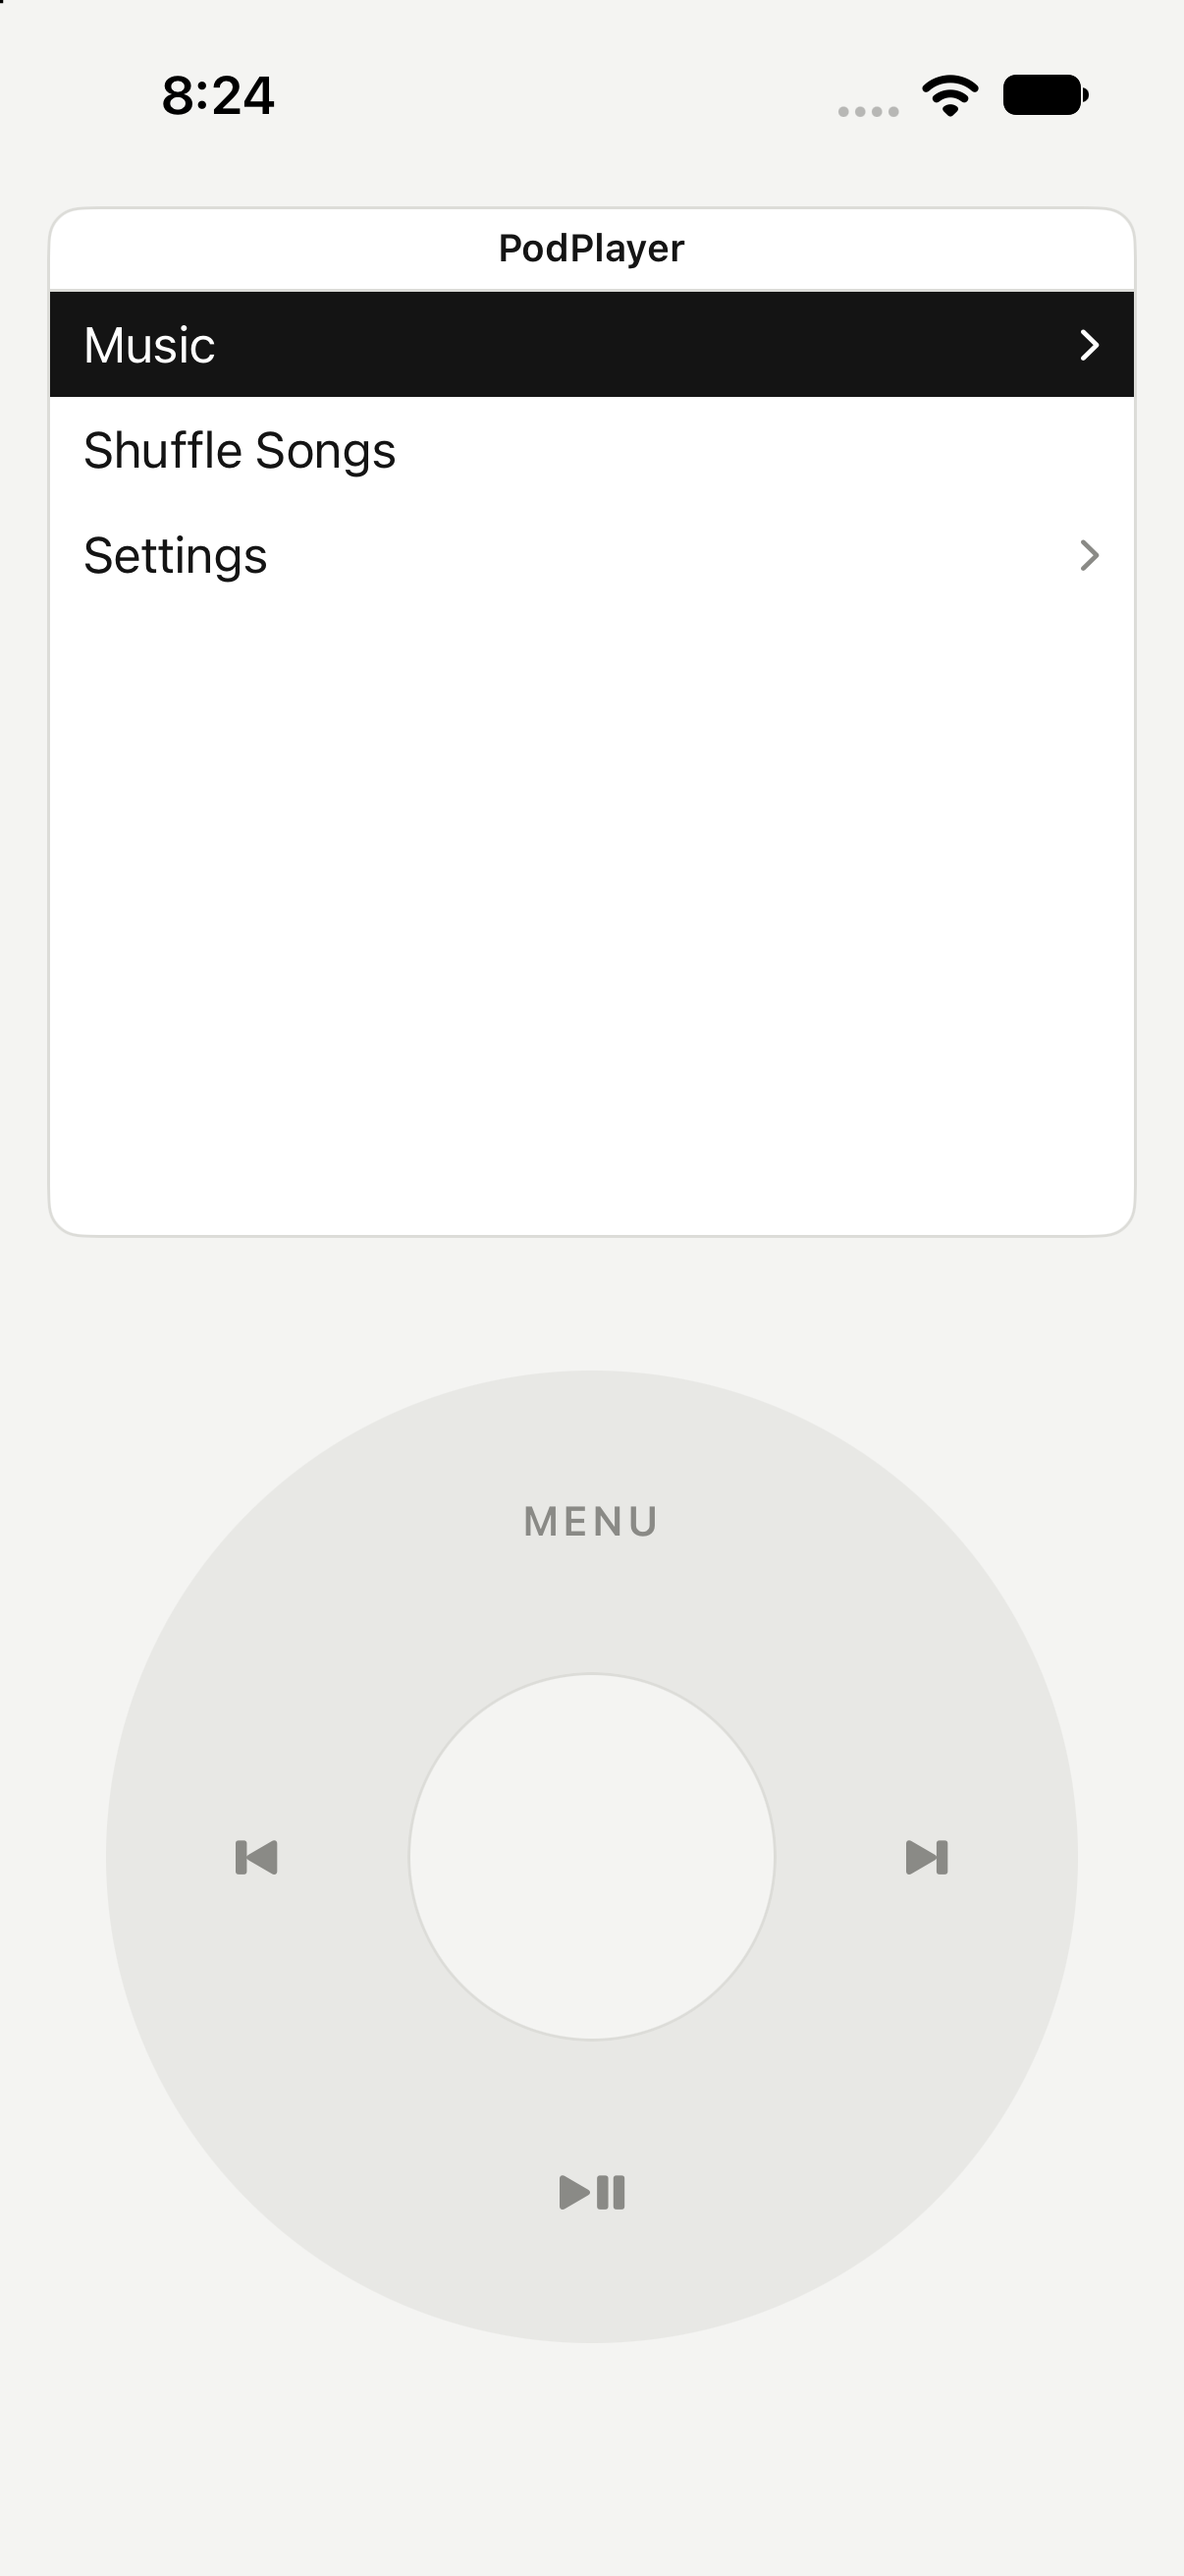
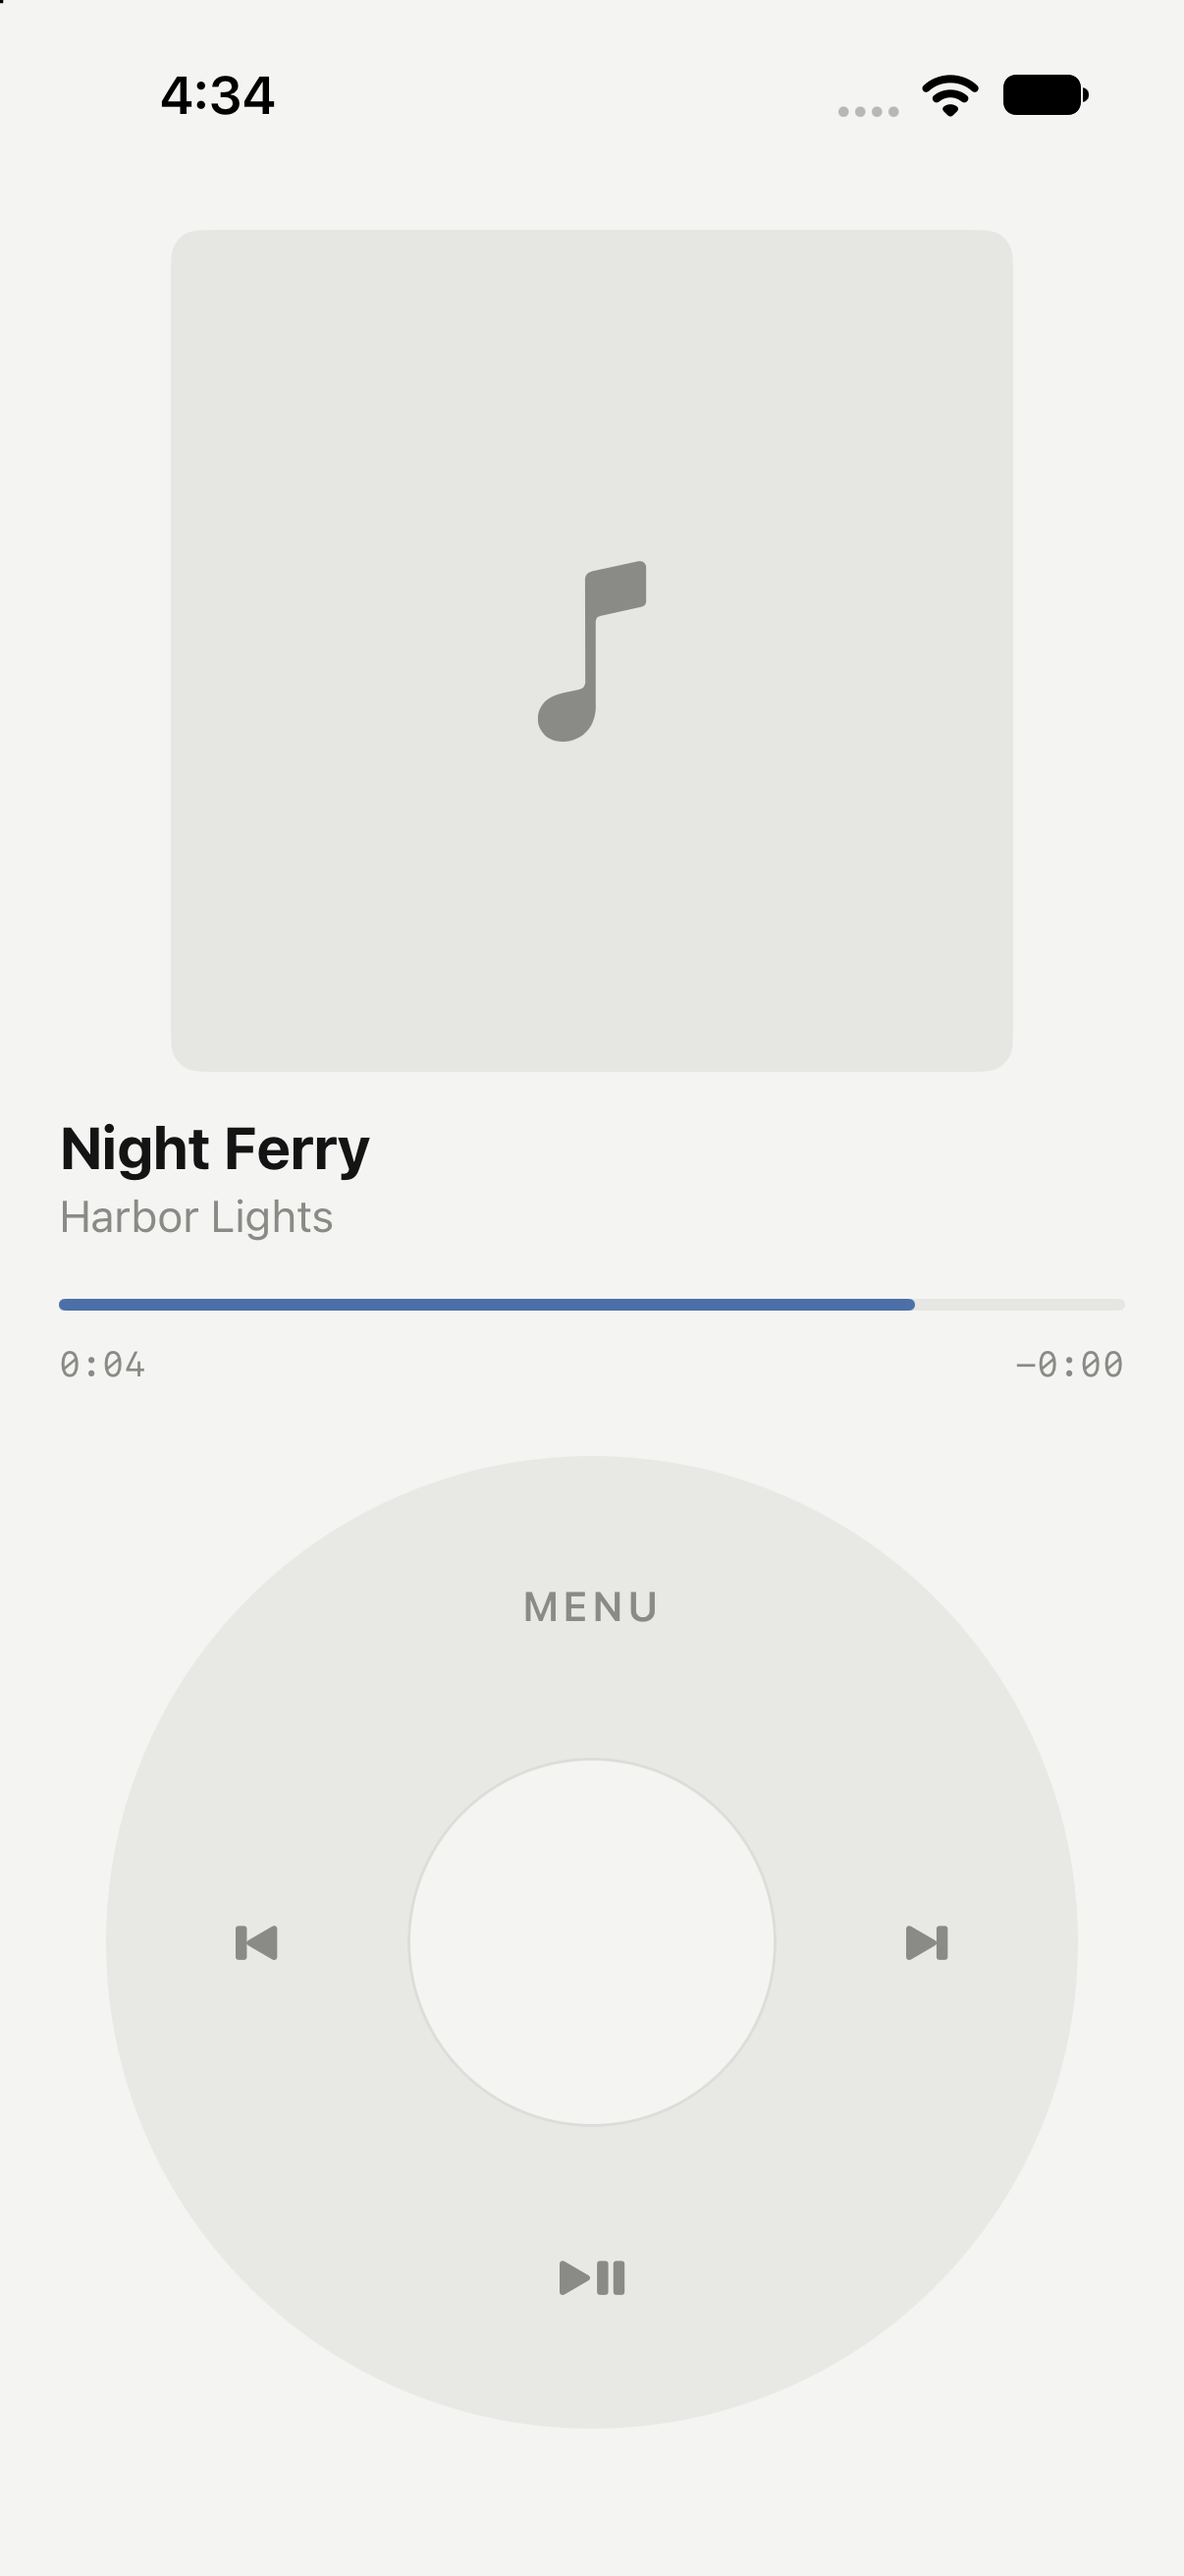
Drop the LCD panel and title bar; Now Playing with large artwork
Claude-Session: https://claude.ai/code/session_01TSfPJPGnncvTh1xTnzV1R5

diff --git a/rewind poc/UI/NowPlayingView.swift b/rewind poc/UI/NowPlayingView.swift
@@ -1,58 +1,52 @@
 import SwiftUI
 
-/// Now Playing: track info, then a progress bar, a volume bar (while spinning in volume
-/// mode) or a scrubber (scrub mode).
+/// Now Playing: large artwork, title and artist, then a progress bar, a volume bar (while
+/// spinning in volume mode) or a scrubber (scrub mode).
 struct NowPlayingView: View {
     let model: AppModel
 
     private var player: PlaybackEngine { model.player }
 
     var body: some View {
-        VStack(alignment: .leading, spacing: 0) {
-            HStack(spacing: 6) {
-                Text(player.queue.positionLabel)
-                Spacer()
-                if player.queue.isShuffled { Image(systemName: "shuffle") }
-                switch player.queue.repeatMode {
-                case .off: EmptyView()
-                case .all: Image(systemName: "repeat")
-                case .one: Image(systemName: "repeat.1")
-                }
-            }
-            .font(Theme.monoFont)
-            .foregroundStyle(Theme.secondary)
-            .padding(.bottom, 10)
+        VStack(alignment: .leading, spacing: 14) {
+            // Takes whatever height is left over, so the artwork is as large as fits.
+            Artwork(image: player.artwork)
+                .frame(maxWidth: .infinity, maxHeight: .infinity)
 
-            HStack(alignment: .top, spacing: 14) {
-                Artwork(image: player.artwork)
-                VStack(alignment: .leading, spacing: 4) {
+            HStack(alignment: .center, spacing: 10) {
+                VStack(alignment: .leading, spacing: 2) {
                     Text(player.currentTrack?.title ?? "Not Playing")
-                        .font(.system(size: 18, weight: .semibold))
+                        .font(.system(size: 20, weight: .bold))
                         .foregroundStyle(Theme.primary)
-                        .lineLimit(2)
                     Text(player.currentTrack?.artist ?? "")
                         .font(.system(size: 15))
                         .foregroundStyle(Theme.secondary)
-                        .lineLimit(1)
-                    Text(player.currentTrack?.album ?? "")
-                        .font(.system(size: 15))
-                        .foregroundStyle(Theme.secondary)
-                        .lineLimit(1)
                 }
+                .lineLimit(1)
                 Spacer(minLength: 0)
+                HStack(spacing: 8) {
+                    if player.queue.isShuffled { Image(systemName: "shuffle") }
+                    switch player.queue.repeatMode {
+                    case .off: EmptyView()
+                    case .all: Image(systemName: "repeat")
+                    case .one: Image(systemName: "repeat.1")
+                    }
+                }
+                .font(.system(size: 13, weight: .semibold))
+                .foregroundStyle(Theme.accent)
             }
 
-            Spacer(minLength: 8)
-
-            if let error = player.errorMessage {
-                Text(error)
-                    .font(.system(size: 13))
-                    .foregroundStyle(Theme.secondary)
-                    .padding(.bottom, 6)
+            VStack(alignment: .leading, spacing: 6) {
+                if let error = player.errorMessage {
+                    Text(error)
+                        .font(.system(size: 13))
+                        .foregroundStyle(Theme.secondary)
+                }
+                bottomBar
             }
-            bottomBar
         }
-        .padding(14)
+        .padding(.horizontal, 4)
+        .padding(.vertical, 8)
     }
 
     @ViewBuilder private var bottomBar: some View {
@@ -66,23 +60,25 @@ struct NowPlayingView: View {
     }
 }
 
+/// Square cover art, sized to fit the space it's given and centered in it.
 private struct Artwork: View {
     let image: UIImage?
 
     var body: some View {
-        Group {
-            if let image {
-                Image(uiImage: image).resizable().scaledToFill()
-            } else {
-                Image(systemName: "music.note")
-                    .font(.system(size: 26, weight: .light))
-                    .foregroundStyle(Theme.secondary)
-                    .frame(maxWidth: .infinity, maxHeight: .infinity)
-                    .background(Theme.track)
+        Color.clear
+            .aspectRatio(1, contentMode: .fit)
+            .overlay {
+                if let image {
+                    Image(uiImage: image).resizable().scaledToFill()
+                } else {
+                    Image(systemName: "music.note")
+                        .font(.system(size: 64, weight: .light))
+                        .foregroundStyle(Theme.secondary)
+                        .frame(maxWidth: .infinity, maxHeight: .infinity)
+                        .background(Theme.track)
+                }
             }
-        }
-        .frame(width: 84, height: 84)
-        .clipShape(RoundedRectangle(cornerRadius: 6, style: .continuous))
+            .clipShape(RoundedRectangle(cornerRadius: 10, style: .continuous))
     }
 }
 

diff --git a/rewind poc/UI/DisplayView.swift b/rewind poc/UI/DisplayView.swift
@@ -1,32 +1,25 @@
 import SwiftUI
 
-/// The "screen": title bar plus whatever the current menu level shows.
+/// The area above the wheel: whatever the current menu level shows, plus transient messages.
 struct DisplayView: View {
     let model: AppModel
 
     var body: some View {
-        VStack(spacing: 0) {
-            TitleBar(title: model.title, isPlaying: model.player.isPlaying, hasTrack: model.player.hasTrack)
-            Rectangle().fill(Theme.hairline).frame(height: 1)
-            content
-                .frame(maxWidth: .infinity, maxHeight: .infinity)
-        }
-        .background(Theme.display)
-        .clipShape(RoundedRectangle(cornerRadius: 12, style: .continuous))
-        .overlay(RoundedRectangle(cornerRadius: 12, style: .continuous).strokeBorder(Theme.hairline, lineWidth: 1))
-        .overlay(alignment: .bottom) {
-            if let message = model.message {
-                Text(message)
-                    .font(.system(size: 13, weight: .medium))
-                    .foregroundStyle(Theme.selectionText)
-                    .padding(.horizontal, 12)
-                    .padding(.vertical, 6)
-                    .background(Capsule().fill(Theme.primary))
-                    .padding(.bottom, 10)
-                    .transition(.opacity)
+        content
+            .frame(maxWidth: .infinity, maxHeight: .infinity)
+            .overlay(alignment: .bottom) {
+                if let message = model.message {
+                    Text(message)
+                        .font(.system(size: 13, weight: .medium))
+                        .foregroundStyle(Theme.selectionText)
+                        .padding(.horizontal, 12)
+                        .padding(.vertical, 6)
+                        .background(Capsule().fill(Theme.primary))
+                        .padding(.bottom, 10)
+                        .transition(.opacity)
+                }
             }
-        }
-        .animation(.easeOut(duration: 0.2), value: model.message)
+            .animation(.easeOut(duration: 0.2), value: model.message)
     }
 
     @ViewBuilder private var content: some View {
@@ -37,59 +30,6 @@ struct DisplayView: View {
             HapticsLabView(model: model)
         default:
             MenuListView(navigator: model.navigator, playingID: model.player.currentTrack?.id)
-        }
-    }
-}
-
-private struct TitleBar: View {
-    let title: String
-    let isPlaying: Bool
-    let hasTrack: Bool
-
-    var body: some View {
-        ZStack {
-            Text(title)
-                .font(Theme.titleFont)
-                .lineLimit(1)
-                .padding(.horizontal, 44)
-            HStack {
-                if hasTrack {
-                    Image(systemName: isPlaying ? "play.fill" : "pause.fill")
-                        .font(.system(size: 10))
-                        .foregroundStyle(isPlaying ? Theme.accent : Theme.secondary)
-                }
-                Spacer()
-                BatteryGlyph()
-            }
-            .padding(.horizontal, 12)
-        }
-        .foregroundStyle(Theme.primary)
-        .frame(height: 28)
-    }
-}
-
-private struct BatteryGlyph: View {
-    var body: some View {
-        let level = Self.level
-        if level >= 0 {
-            Image(systemName: Self.symbol(for: level))
-                .font(.system(size: 13))
-                .foregroundStyle(Theme.secondary)
-        }
-    }
-
-    private static var level: Float {
-        UIDevice.current.isBatteryMonitoringEnabled = true
-        return UIDevice.current.batteryLevel
-    }
-
-    private static func symbol(for level: Float) -> String {
-        switch level {
-        case ..<0.13: "battery.0percent"
-        case ..<0.38: "battery.25percent"
-        case ..<0.63: "battery.50percent"
-        case ..<0.88: "battery.75percent"
-        default: "battery.100percent"
         }
     }
 }

diff --git a/rewind poc/Navigation/Menu.swift b/rewind poc/Navigation/Menu.swift
@@ -60,28 +60,8 @@ nonisolated struct MenuContext: Sendable {
     }
 }
 
-/// Pure functions from (screen, context) to title and rows.
+/// Pure functions from (screen, context) to rows.
 nonisolated enum MenuBuilder {
-    static func title(for screen: Screen, context: MenuContext) -> String {
-        switch screen {
-        case .main: "re:wind"
-        case .music: "Music"
-        case .songs: "Songs"
-        case .artists: "Artists"
-        case .albums: "Albums"
-        case .artist(let name), .artistSongs(let name): name
-        case .album(let name): name
-        case .localFiles: "Local Files"
-        case .localTrack(let id): context.localTracks.first { $0.id == id }?.title ?? "Song"
-        case .confirmDelete: "Delete?"
-        case .cloud: "Cloud"
-        case .settings: "Settings"
-        case .hapticsLab: "Haptics Lab"
-        case .about: "About"
-        case .nowPlaying: "Now Playing"
-        }
-    }
-
     static func items(for screen: Screen, context c: MenuContext) -> [MenuItem] {
         switch screen {
         case .main:

diff --git a/rewind poc/UI/ContentView.swift b/rewind poc/UI/ContentView.swift
@@ -1,7 +1,7 @@
 import SwiftUI
 import UniformTypeIdentifiers
 
-/// Portrait iPod layout: display on top (~45%), click wheel centered below.
+/// Portrait layout: menus / Now Playing on top, click wheel centered below.
 struct ContentView: View {
     @Bindable var model: AppModel
 
@@ -11,8 +11,10 @@ struct ContentView: View {
 
     var body: some View {
         GeometryReader { geo in
-            let displayHeight = geo.size.height * 0.45
-            let wheelSize = min(geo.size.width - 72, geo.size.height - displayHeight - 48)
+            // The wheel is sized first (it's capped by the width on most phones); the display
+            // takes everything above it, so Now Playing's artwork can be as large as possible.
+            let wheelSize = min(geo.size.width - 72, geo.size.height * 0.45)
+            let displayHeight = geo.size.height - wheelSize - 40
             VStack(spacing: 0) {
                 DisplayView(model: model)
                     .frame(height: displayHeight)

diff --git a/rewind poc/UI/MenuListView.swift b/rewind poc/UI/MenuListView.swift
@@ -1,6 +1,6 @@
 import SwiftUI
 
-/// Classic iPod list: fixed-height rows, inverted selection bar, scroll indicator on the right.
+/// Fixed-height rows, a rounded selection highlight, scroll indicator on the right.
 struct MenuListView: View {
     let navigator: MenuNavigator
     let playingID: Track.ID?
@@ -62,7 +62,8 @@ struct MenuListView: View {
         .padding(.horizontal, 12)
         .frame(maxWidth: .infinity, maxHeight: .infinity, alignment: .leading)
         .foregroundStyle(selected ? Theme.selectionText : Theme.primary)
-        .background(selected ? Theme.selectionFill : .clear)
+        .background(selected ? Theme.selectionFill : .clear, in: RoundedRectangle(cornerRadius: 8, style: .continuous))
+        .padding(.vertical, 1)
     }
 }
 

diff --git a/rewind poc/UI/Theme.swift b/rewind poc/UI/Theme.swift
@@ -14,12 +14,11 @@ enum Theme {
     /// The one accent: a quiet slate blue, used for progress fills and the playing glyph.
     static let accent       = dynamic(light: 0x4C6FA8, dark: 0x86A6D8)
 
-    /// Selected menu row: inverted, like a monochrome LCD.
+    /// Selected menu row: inverted colors.
     static let selectionFill = primary
     static let selectionText = display
 
     static let rowFont = Font.system(size: 17, weight: .regular)
-    static let titleFont = Font.system(size: 13, weight: .semibold)
     static let monoFont = Font.system(size: 12, weight: .regular, design: .monospaced)
 
     private static func dynamic(light: UInt32, dark: UInt32) -> Color {

diff --git a/rewind poc/App/AppModel.swift b/rewind poc/App/AppModel.swift
@@ -82,7 +82,6 @@ final class AppModel {
                     version: Self.version)
     }
 
-    var title: String { MenuBuilder.title(for: navigator.screen, context: menuContext) }
 
     // MARK: Wheel events
 
